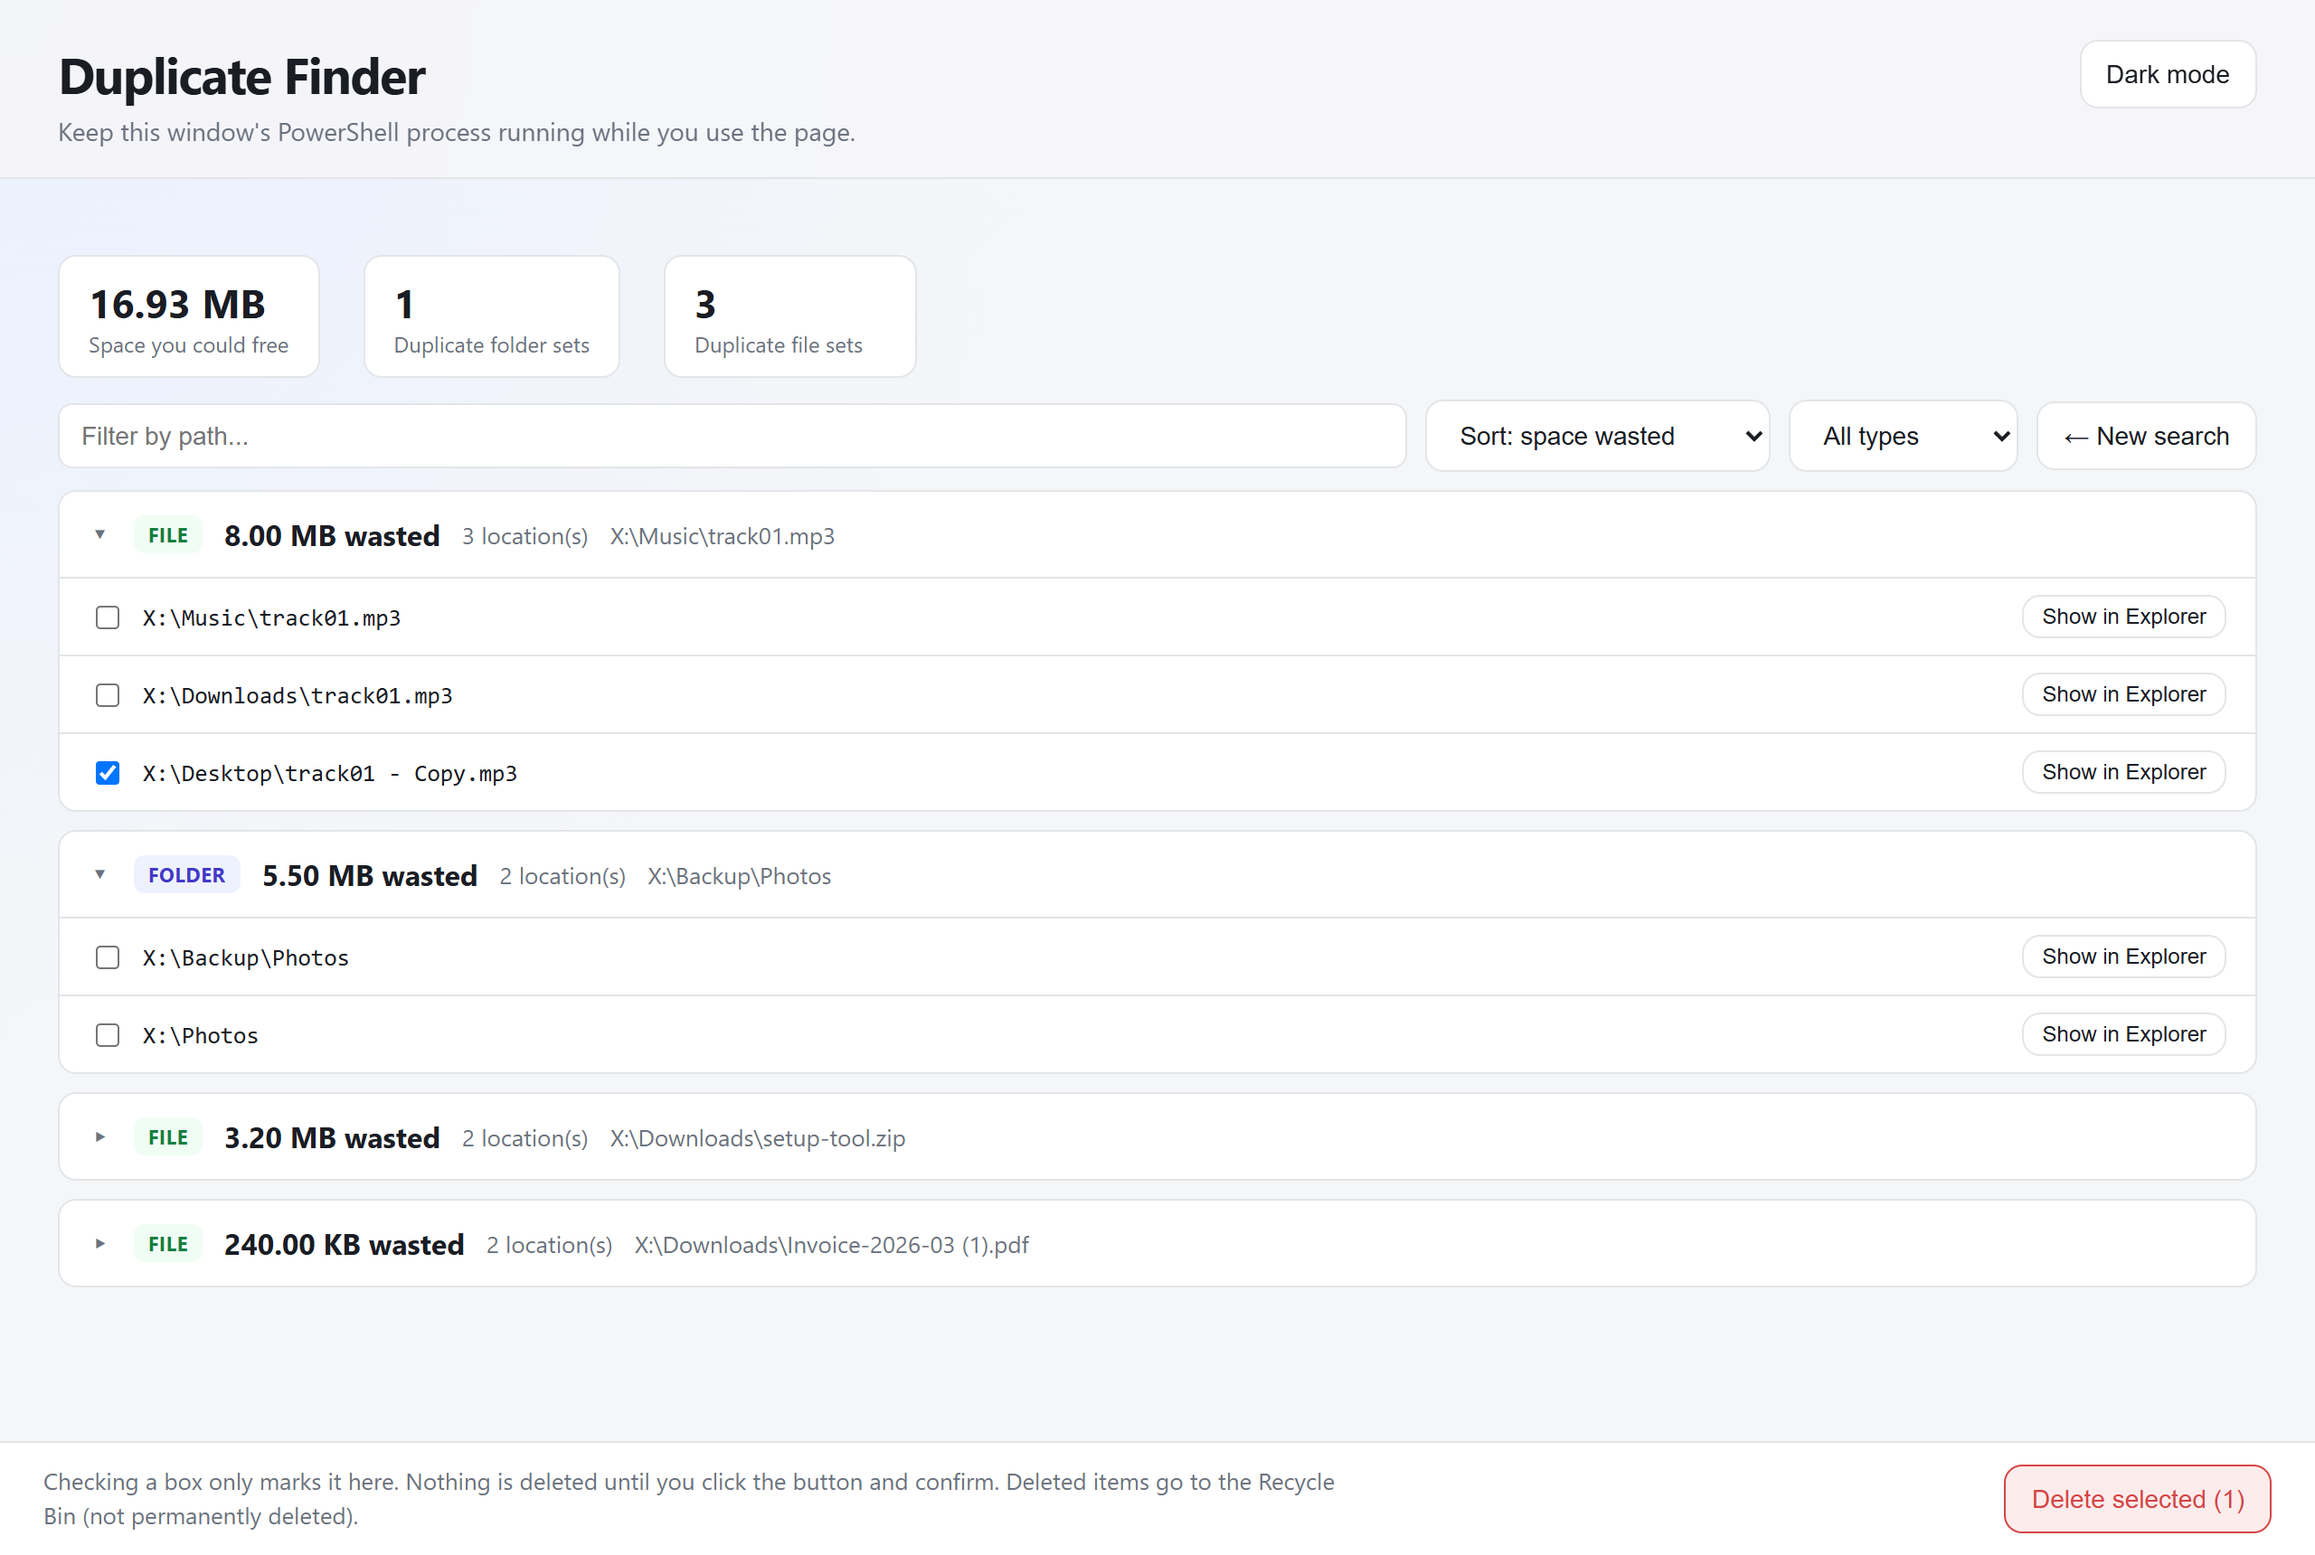
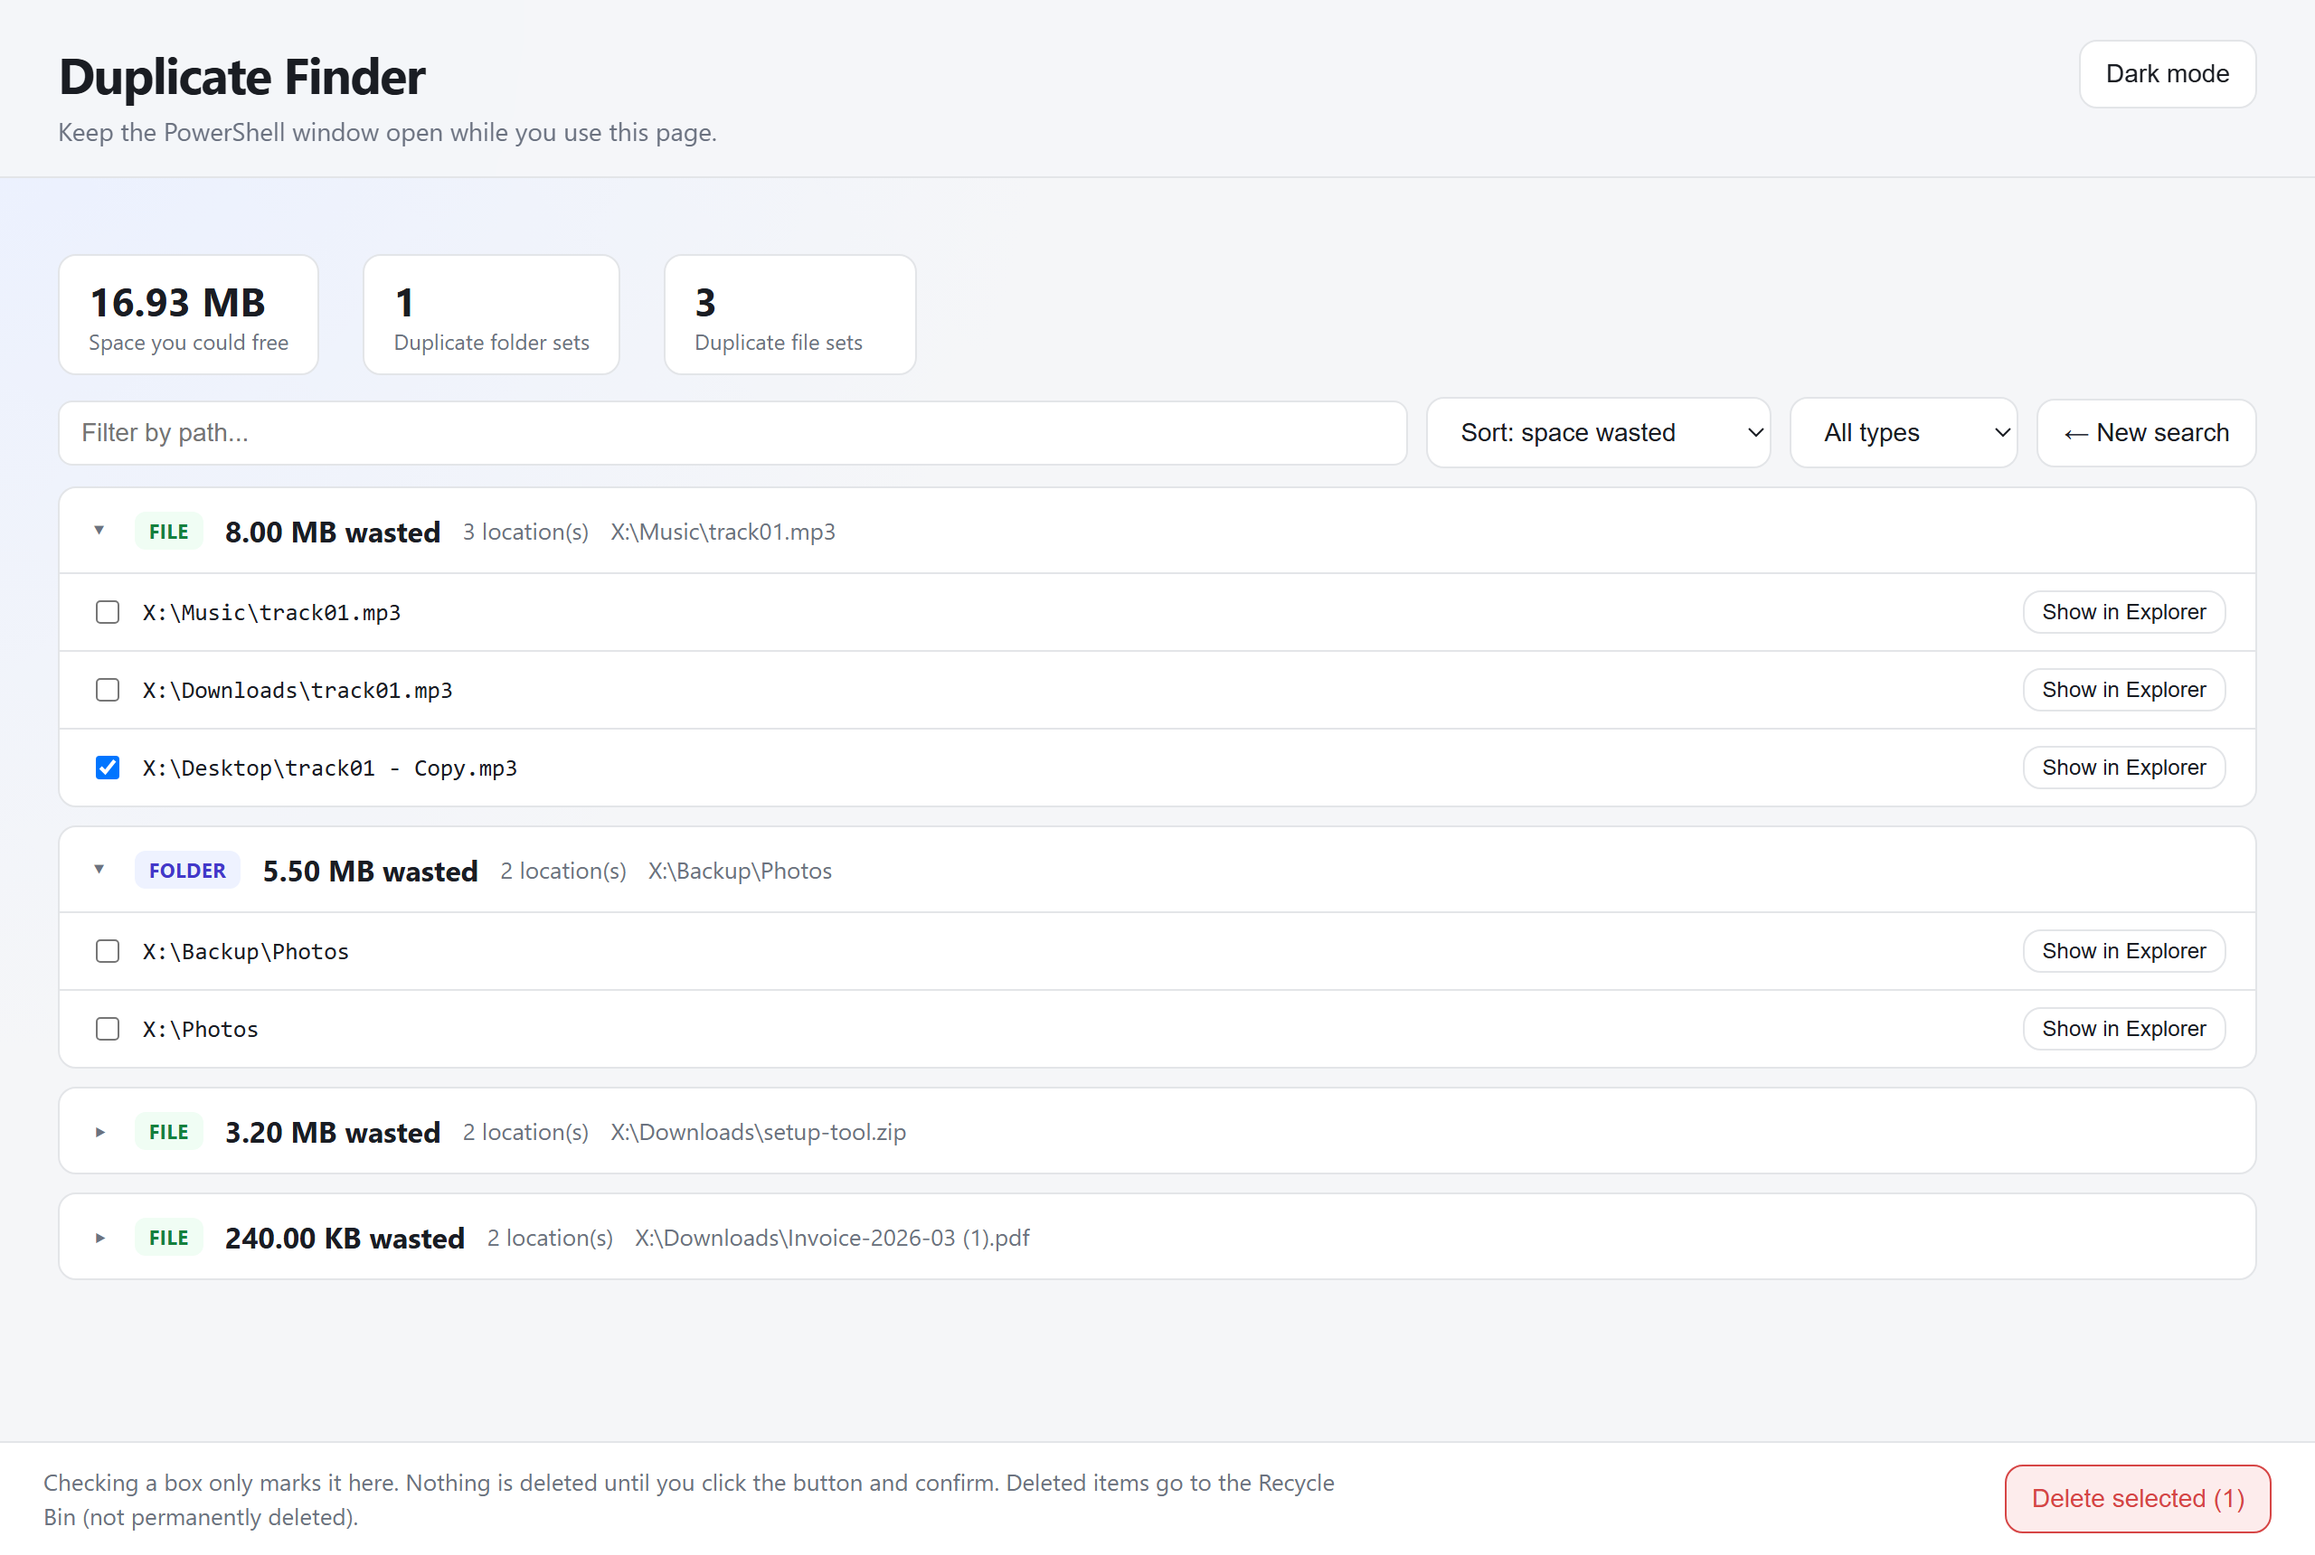
Stop Duplicate Finder from listing a folder or file as its own copy
A junction or symbolic link to a scanned folder was reported as a
duplicate folder of its target, and a location chosen twice with two
spellings (C:/Data and C:\Data\) made every file in it a duplicate of
itself. Deleting "one copy" would then have removed the only one. Links
are no longer followed, and each chosen location is reduced to one
spelling before the scan.

The rule that one copy of each set must stay could be bypassed: sorting
or filtering redrew the list without its ticks, and a copy already in
the Recycle Bin still counted as a copy that stays. The list now keeps
the ticks, and recycled copies stay marked and no longer count.

The subtitle of the page says what to keep open in plain words, so the
screenshot is new, and the counter of cloud-only files that nothing
read is gone.

Tested in Windows PowerShell 5.1 and PowerShell 7 on a folder with
duplicate files, a copied folder, a junction and the same location
chosen with three spellings, in the browser and through the server.

diff --git a/duplicate-finder/README.md b/duplicate-finder/README.md
@@ -36,9 +36,10 @@ This opens http://localhost:8791/ in your default browser. Keep the PowerShell w
 
 - Never deletes permanently: everything goes through the Recycle Bin and can be restored.
 - Never opens or downloads OneDrive cloud-only files: they are skipped, and a folder that contains one is never reported as a duplicate folder.
+- Never follows junctions or symbolic links: a link is another name for a folder, not a copy of it.
 - Nothing is deleted without an explicit checkbox selection and a confirmation click.
 - The local server only answers its own page: each run creates a random session token, and requests without it, or from another website, are rejected.
 
 ## Tested on
 
-Windows 11, in both Windows PowerShell 5.1 and PowerShell 7: deleting to the Recycle Bin, the rule that one copy of each set must stay, Show in Explorer and removing a selection on a path with an apostrophe, a crafted file name that must not run as script in the page, and requests to the local server without the session token or from another website, which are rejected.
+Windows 11, in both Windows PowerShell 5.1 and PowerShell 7: deleting to the Recycle Bin, the rule that one copy of each set must stay (also after sorting, filtering and deleting), a junction to a scanned folder and one folder chosen with two spellings (neither is reported as a duplicate), Show in Explorer and removing a selection on a path with an apostrophe, a crafted file name that must not run as script in the page, and requests to the local server without the session token or from another website, which are rejected.
